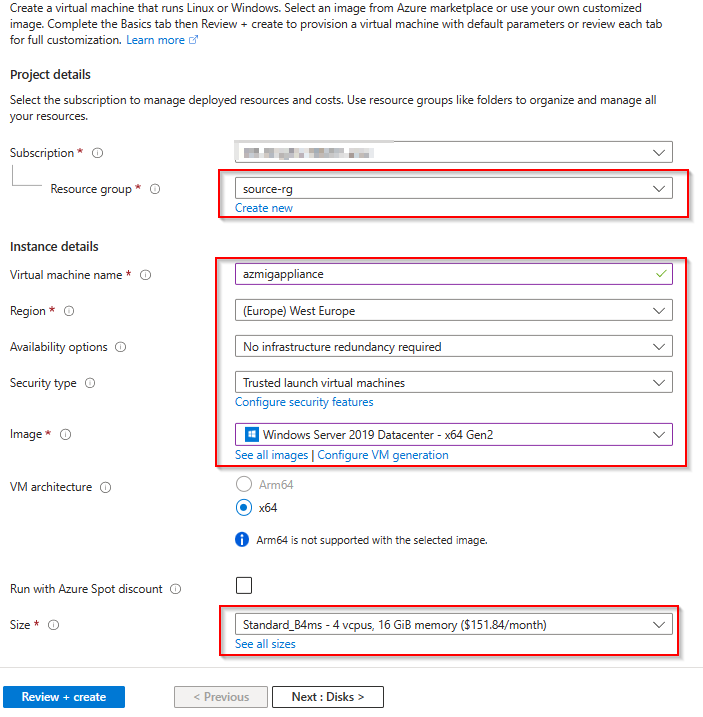
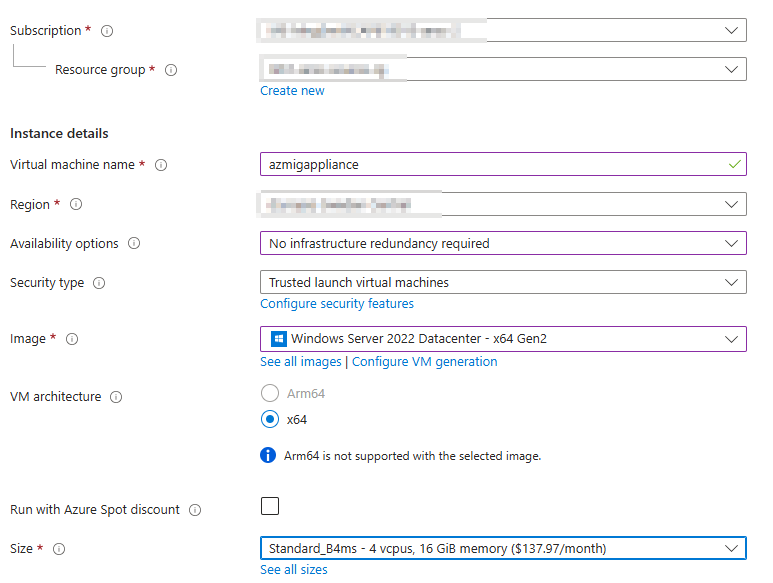
Update Ch2 to use WS2022

diff --git a/03-Azure/01-03-Infrastructure/06_Migration_Datacenter_Modernization/walkthrough/challenge-2/solution.md b/03-Azure/01-03-Infrastructure/06_Migration_Datacenter_Modernization/walkthrough/challenge-2/solution.md
@@ -31,9 +31,9 @@ Your previousley created Azure Migrate project should be preselected.
 ![image](./img/AzMig4.png)
 
 
-### **Task 2: Create and prepare Windows Server 2019 for the Azure Migrate Appliance**
+### **Task 2: Create and prepare Windows Server 2022 for the Azure Migrate Appliance**
 
-To start physical server discovery you must install the Azure Migrate Appliance on your on-premises. The Azure Migrate Appliance can be downloaded as a OVA or VHD template or you can download a ZIP file containing a PowerShell script to install it on a already existing server. For the purpose of this MicroHack we will install the Azure Migrate Appliance via the PowerShell script on a Windows Server 2019 system.
+To start physical server discovery you must install the Azure Migrate Appliance on your on-premises. The Azure Migrate Appliance can be downloaded as a OVA or VHD template or you can download a ZIP file containing a PowerShell script to install it on a already existing server. For the purpose of this MicroHack we will install the Azure Migrate Appliance via the PowerShell script on a Windows Server 2022 system.
 
 > [!IMPORTANT]
 > Please make sure to check the [prerequisites](https://learn.microsoft.com/en-us/azure/migrate/tutorial-discover-physical#prerequisites) of the Azure Migrate Appliance.
@@ -42,7 +42,7 @@ In the Azure Portal select *Virtual machines* from the navigation pane on the le
 
 ![image](./img/AzMigApp1.png)
 
-Under Basics select the *source-rg* Resource Group and provide a name for the server. Select *Windows Server 2019 Datacenter - x64 Gen2* for the Image.
+Under Basics select the *source-rg* Resource Group and provide a name for the server. Select *Windows Server 2022 Datacenter - x64 Gen2* for the Image.
 
 ![image](./img/AzMigApp2.png)
 
@@ -61,7 +61,7 @@ Wait until the deployment has been successfully completed and select *Go to reso
 
 ![image](./img/AzMigApp5.png)
 
-Select *Bastion* from the navigation pane on the left, provide the credentials to login to the Azure Migrate Appliance VM and select *Connect*. A new browser tab should open with a remote session to the Windows Server 2019 system.
+Select *Bastion* from the navigation pane on the left, provide the credentials to login to the Azure Migrate Appliance VM and select *Connect*. A new browser tab should open with a remote session to the Windows Server 2022 system.
 
 ![image](./img/AzMigApp6.png)
 
@@ -74,7 +74,7 @@ Select *Bastion* from the navigation pane on the left, provide the credentials t
 > [!IMPORTANT]
 > Please make sure to run the following commands inside of the virtual machine you created for the mirgration appliance
 
-Open Microsoft Edge on the Windows Server 2019 system and navigate and login to the [Azure Portal](https://portal.azure.com).
+Open Microsoft Edge on the Windows Server 2022 system and navigate and login to the [Azure Portal](https://portal.azure.com).
 
 ![image](./img/AzMigApp7.png)
 
@@ -107,20 +107,31 @@ Select Option 1 for *Azure Public*
 
 ![image](./img/Discover6.png)
 
-Select Option 1 for *public endpoint* and confirm you selection to start the installation.
+Select Option 1 for *public endpoint* and confirm your selection to start the installation.
 
 ![image](./img/Discover7.png)
 
-Select *N* for IE11 uninstallation. 
+Select *A* again and continue the installation.
 
-> [!WARNING]
-> Please note the Warning that IE11 is incompatible with latest Azure Migrate Appliance configuration manager and make sure using Microsoft Edge to configure the Azure Migrate appliance
+![image](./img/Discover8-1.png)
 
-![image](./img/Discover8.png)
+Select *Y* again to uninstall IE11 and continue the installation.
+
+![image](./img/Discover8-2.png)
+
+The system will reboot automatically. Installation is now complete.
+
+![image](./img/Discover8-3.png)
+
+Wait for the reboot to complete, log-in again and proceed to Task 4.
 
 ### **Task 4: Configure the Azure Migrate Appliance**
 
-Open Azure Migrate Appliance Configuration Manager using Microsoft Edge and agree the terms of use.
+Open Azure Migrate Appliance Configuration Manager using the icon on the Desktop.
+
+![image](./img/Discover9-0.png)
+
+Agree the terms of use.
 
 ![image](./img/Discover9.png)
 
@@ -156,7 +167,7 @@ The last step is to provide additional credentials if you want to perform softwa
 
 ![image](./img/Discover17.png)
 
-![image](./img/Discover17-1.png.png)
+![image](./img/Discover17-1.png)
 
 After discovery has been successfully initiated, go to the Azure portal to review the discovered inventory.
 

diff --git a/03-Azure/01-03-Infrastructure/06_Migration_Datacenter_Modernization/Readme.md b/03-Azure/01-03-Infrastructure/06_Migration_Datacenter_Modernization/Readme.md
@@ -108,8 +108,6 @@ The goal of this exercise is to...
 > [!IMPORTANT]
 > To be able to create a Business Case, make sure to select Europe as the Geography for the Azure Migrate Project
 * Deploy a Azure Migrate Appliance
-> [!IMPORTANT]
-> Carefully select the appropriate OS for the Azure Migrate Appliance. Windows Server 2016 is officially supported. Windows Server 2019 will work as well. Windows Server 2022 does not work yet.
 * Create a continuous discovery of your source environment
 
 ### Success criteria
